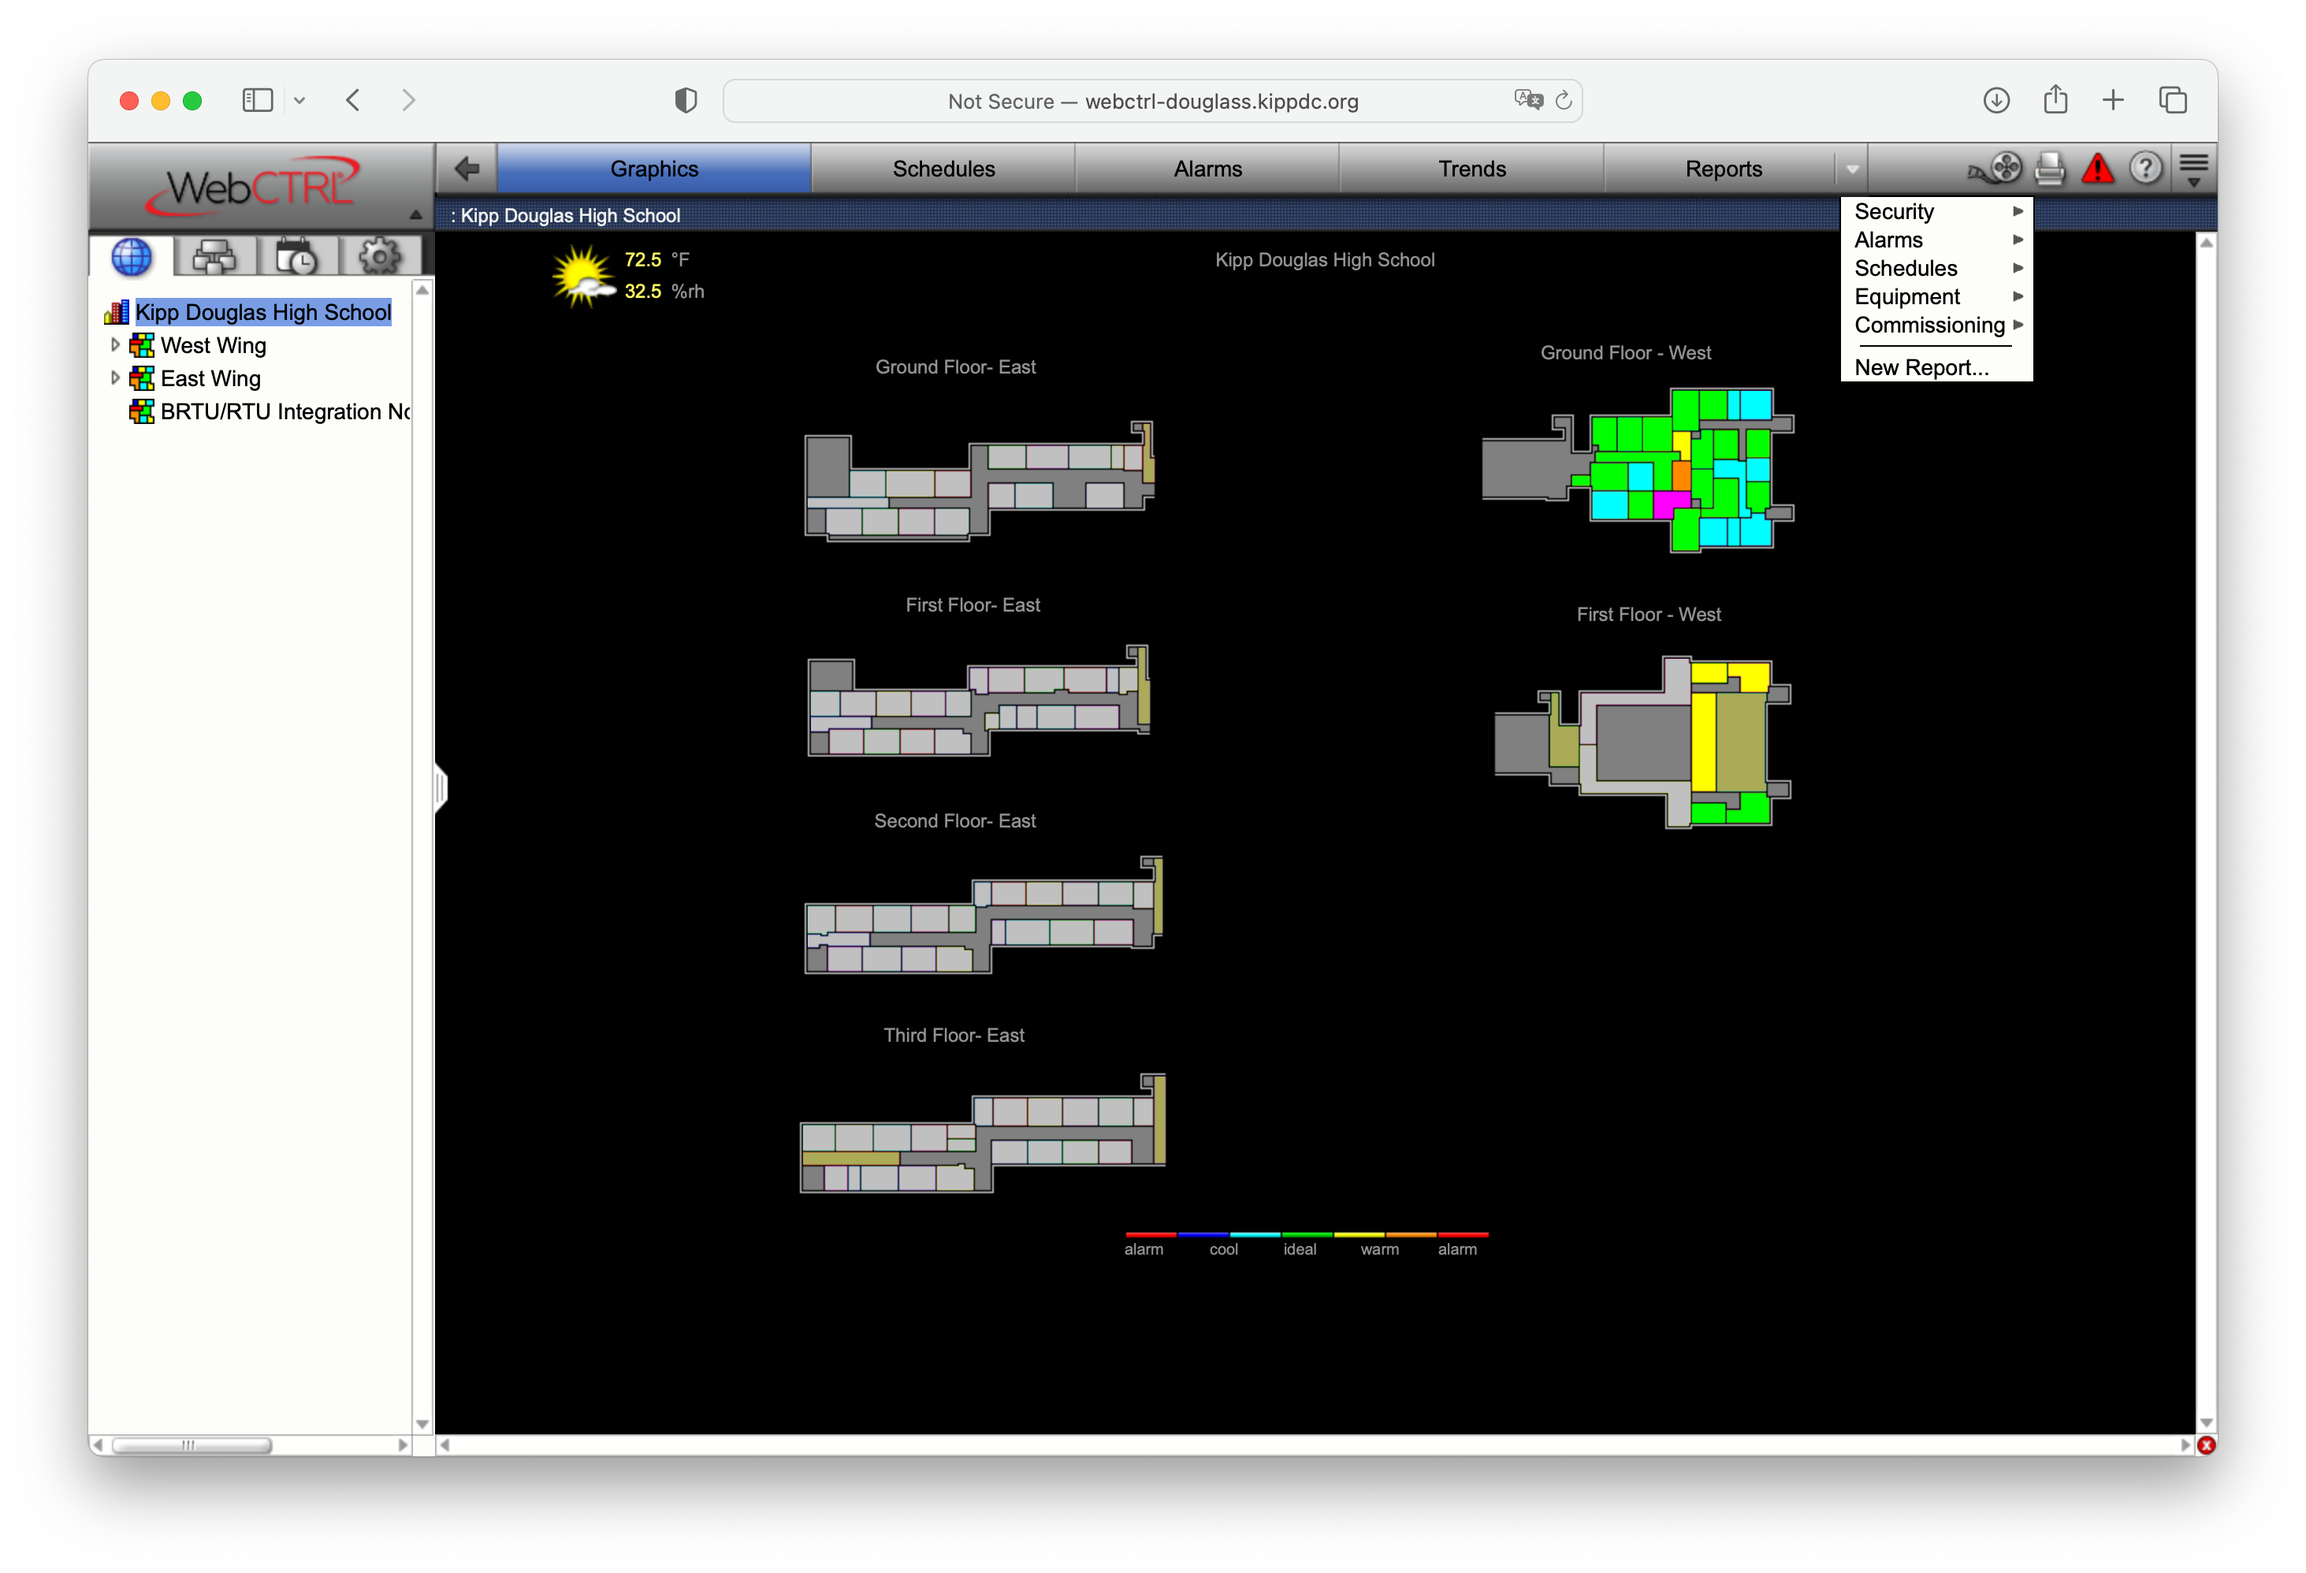
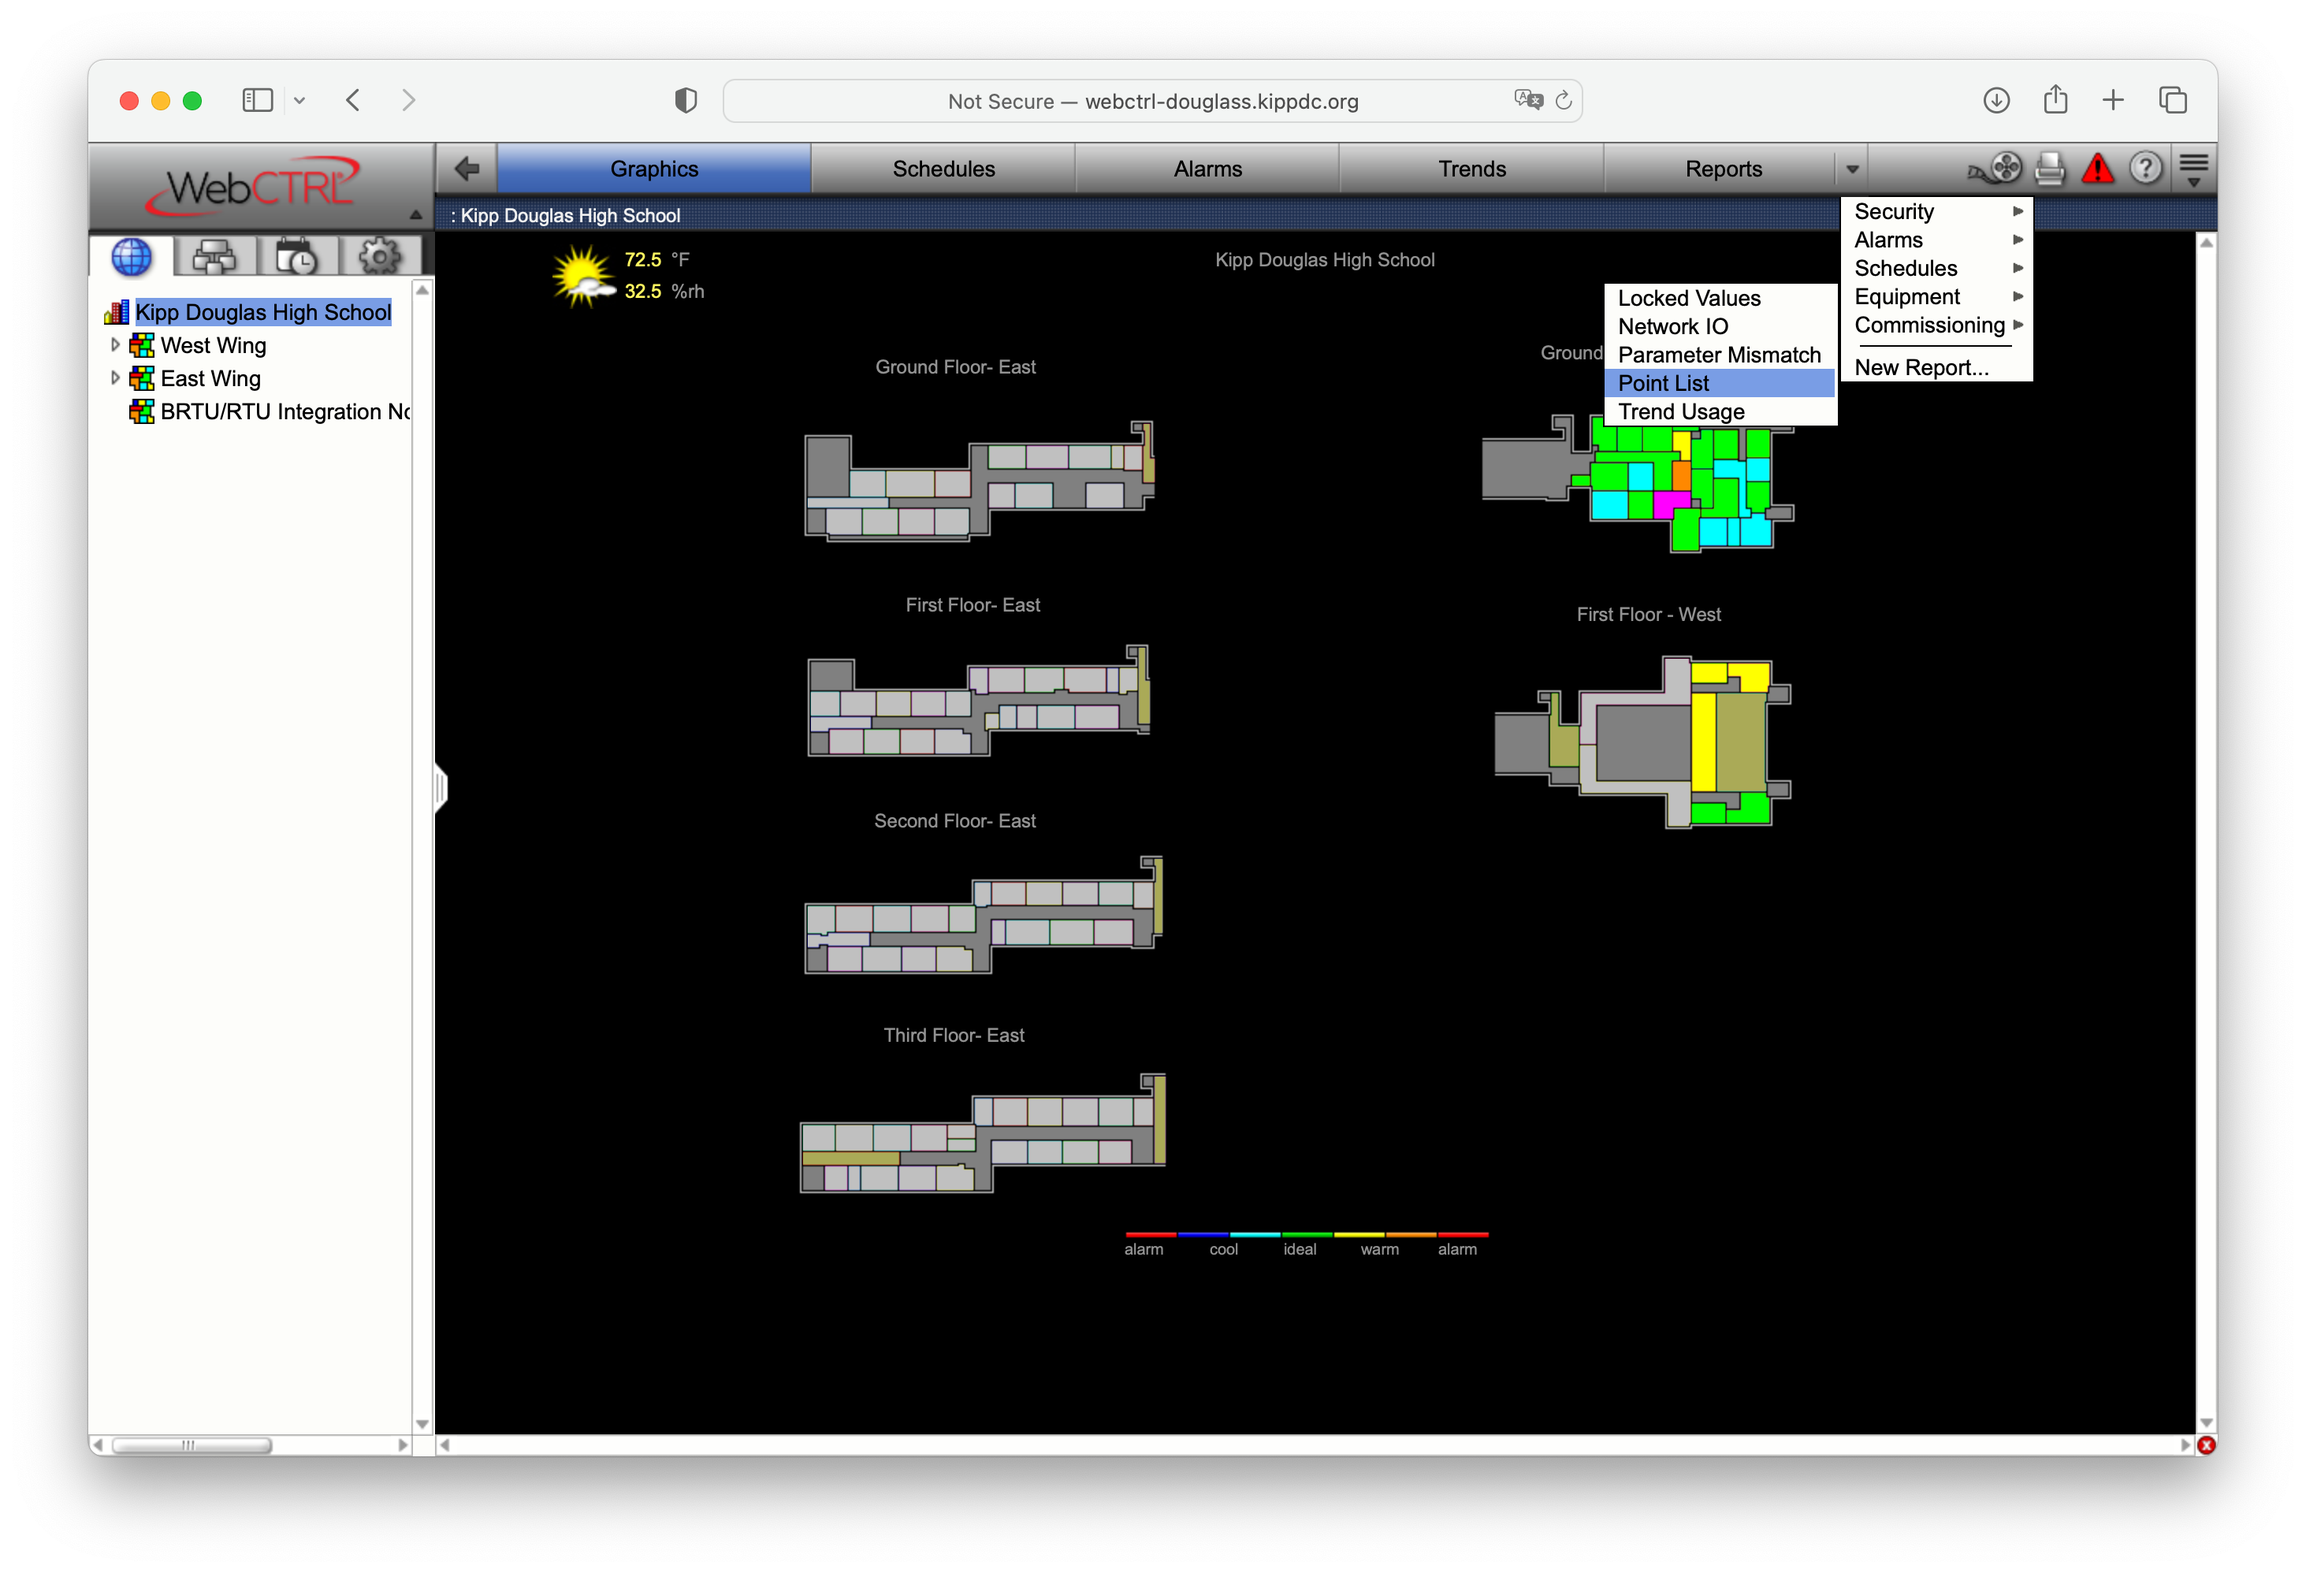
improve export steps

Changed region(s): [[0.6842, 0.1553, 0.8086, 0.2796]]

diff --git a/static/components/export-steps.vue b/static/components/export-steps.vue
@@ -1,14 +1,14 @@
 <template>
   <v-card rounded="0" flat>
     <v-window v-model="step" show-arrows>
-      <v-window-item v-for="n in steps" :key="`card-${n.id}`" :value="n.id">
+      <v-window-item v-for="n in steps" :key="`card-${n.id}`" :value="n.id" eager>
         <h3 class="text-h6">{{ n.title }}</h3>
-        <br>
         <v-sheet>
           <div class="text-body-1">
             {{ n.description }}
           </div>
-          <v-img :height="600" cover :src="n.img">          
+          <br>
+          <v-img max-height="600" :src="n.img" eager>   
           </v-img>
         </v-sheet>
       </v-window-item>
@@ -28,13 +28,9 @@ const defaultDesc = `Lorem ipsum dolor sit amet, consectetur adipiscing elit, se
 export default {
   data: () => ({
     steps: [
-      { id: 1, title: "Step 1", description: "Lorem Ipsum", img: "images/step-1.png" },
-      { id: 2, title: "Step 2", description: defaultDesc, img: "images/step-2.png" },
-      { id: 3, title: "Step 3", description: defaultDesc, img: "images/step-3.png" },
-      { id: 4, title: "Step 4", description: defaultDesc, img: "images/step-4.png" },
-      { id: 5, title: "Step 5", description: defaultDesc, img: "images/step-5.png" },
-      { id: 6, title: "Step 6", description: defaultDesc, img: "images/step-6.png" },
-      { id: 7, title: "Step 7", description: defaultDesc, img: "images/step-7.png" }
+      { id: 1, title: "Step 1", description: "From the reports menu, open the Equipment submenu and select Point List", img: "images/step-1.png" },
+      { id: 2, title: "Step 2", description: "Click to the Options tab, and ensure the “Type” and “Object ID | Device ID | Object Name” columns are checked, and that the “BACnet points” checkbox under the “Include Only” heading are checked. Then hit “Run”", img: 'images/step-2.png' },
+      { id: 3, title: "Step 3", description: "After the report has completed, click the “CSV” button. Save the resulting download to your hard drive, and upload it in the next step.", img: "images/step-3.png" },
     ],
     step: 1
   }),
